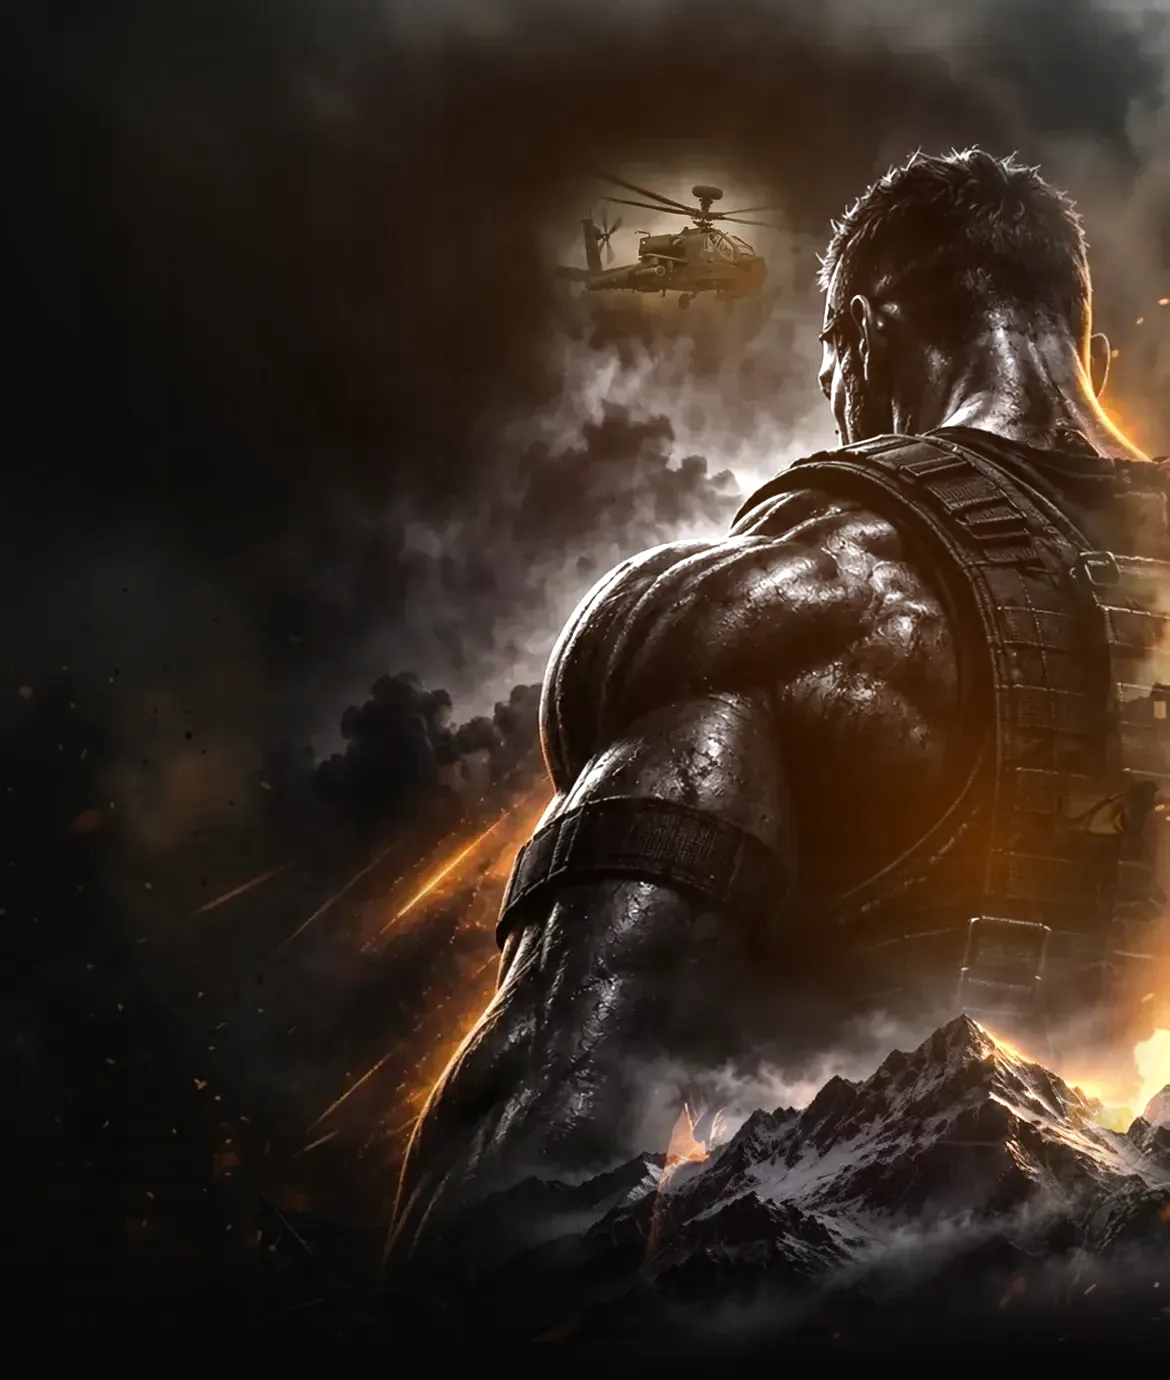
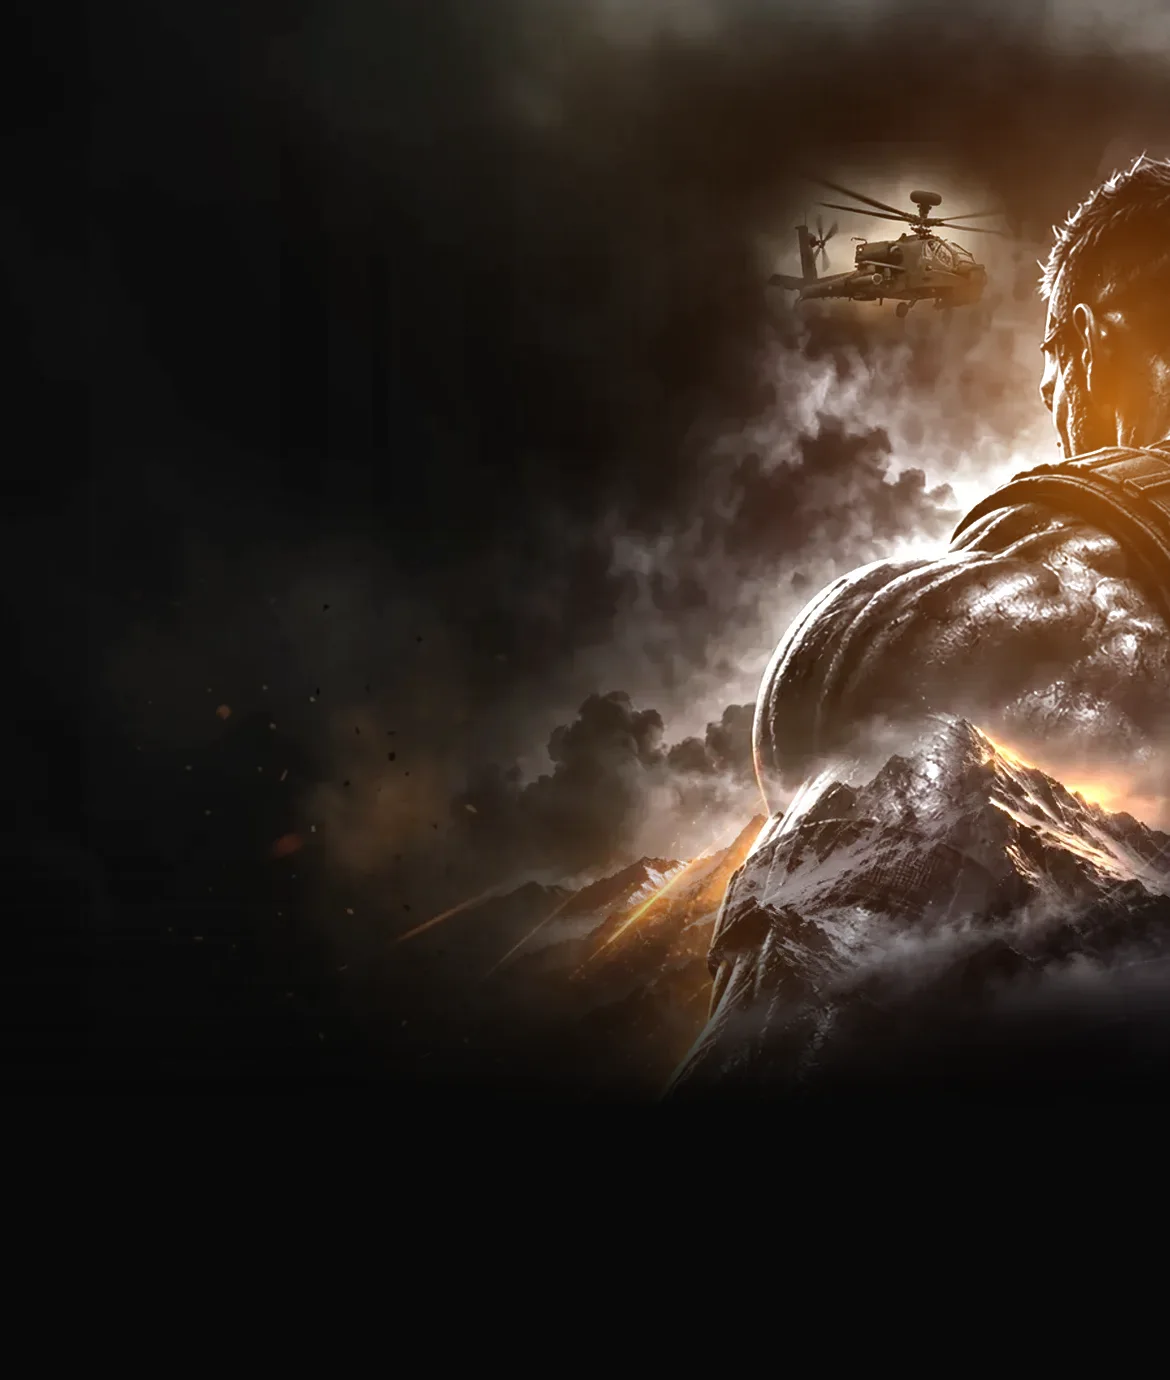
Phone hero: warmer, brighter battlefield; command-centre text always visible
Claude-Session: https://claude.ai/code/session_014Xmm6a1V85rTLyXYfDJ2dw

diff --git a/src/components/landing/Warfare.tsx b/src/components/landing/Warfare.tsx
@@ -169,7 +169,7 @@ export function WxCentre({ playUrl, iosUrl }: { playUrl: string; iosUrl?: string
   return (
     <section id="screens" className="wx-centre">
       <div className="wx-centre-bg" aria-hidden />
-      <Reveal className="wx-centre-copy">
+      <div className="wx-centre-copy">
         <h2 className="wx-h2"><span>Your training.</span><span>Your progress.</span><span className="wx-o">Your command centre.</span></h2>
         <p className="wx-centre-sub">A complete fitness platform in your pocket.</p>
         <ul className="wx-checks">{CHECKS.map((c) => <li key={c}><Check aria-hidden /> {c}</li>)}</ul>
@@ -178,7 +178,7 @@ export function WxCentre({ playUrl, iosUrl }: { playUrl: string; iosUrl?: string
           <GooglePlayBadge href={playUrl} height={58} className="wx-play" />
           <Link href="/download" className="wx-ghost wx-dl"><Zap aria-hidden /> Download app</Link>
         </div>
-      </Reveal>
+      </div>
       <div className="wx-fan" aria-hidden>
         <PhoneFrame src="/landing/app-training.webp" className="wx-fan-1" />
         <PhoneFrame src="/landing/app-home.webp" className="wx-fan-2" />

diff --git a/src/app/globals.css b/src/app/globals.css
@@ -1947,3 +1947,8 @@ html.light .hc-root .hc-streak .bg-white\/10 { background-color: rgba(0,0,0,0.08
   .wx-phones3d { left: calc(var(--u) * 210); top: calc(var(--u) * 150); width: calc(var(--u) * 172); }
 }
 .wx-phones3d { filter: drop-shadow(0 0 26px rgba(255,130,0,.38)) drop-shadow(0 18px 24px rgba(0,0,0,.6)); }
+@media (max-width: 599px) {
+  .wx-hero-bg img { object-position: 50% 0%; }
+  .wx-hero-bg::after { background: linear-gradient(90deg, rgba(8,8,8,.62) 0%, rgba(8,8,8,.3) 45%, rgba(8,8,8,0) 66%), linear-gradient(180deg, rgba(8,8,8,.3) 0%, rgba(8,8,8,0) 20%, rgba(8,8,8,0) 84%, #080808 100%); }
+  .wx-hero-mob .wx-hero-sub { max-width: calc(var(--u) * 172); }
+}
